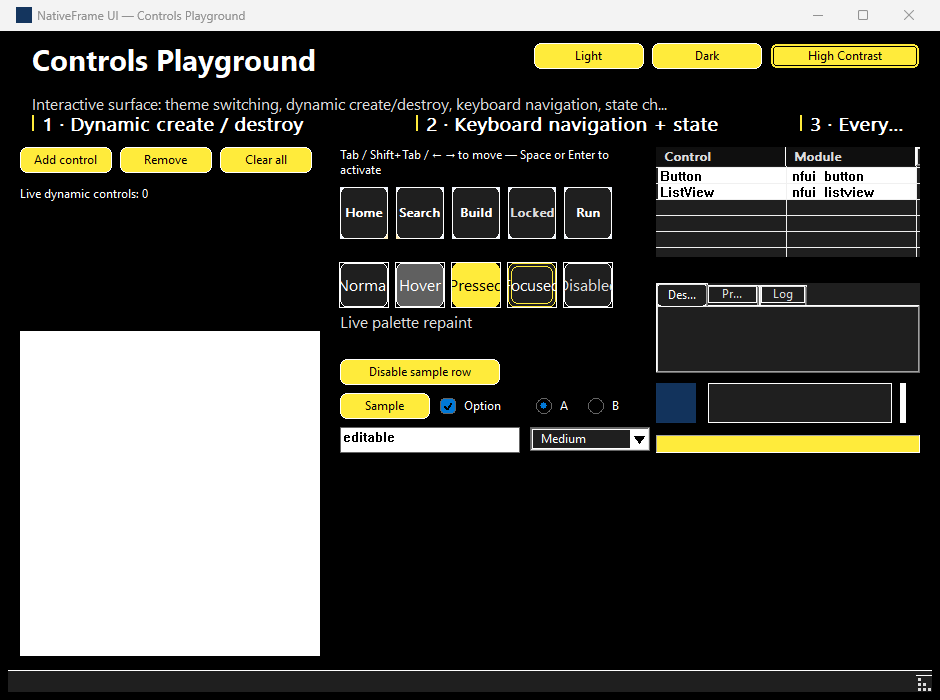
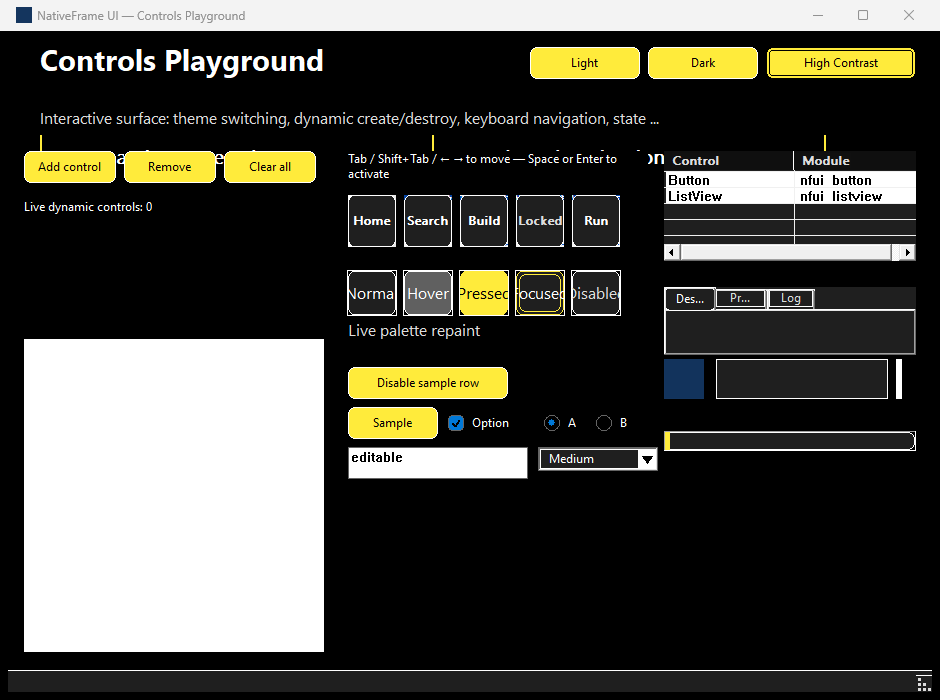
feat(cpB7): ControlsPlayground polish — design-token spacing rhythm
Migrated all layout/paint magic numbers in the interactive playground to
nfui::design tokens (spacing_sm/md/lg/xs and control_height_sm/md/lg).

- The sample already had runtime theme switching, dynamic create/destroy,
  keyboard navigation, and palette-driven state swatches.
- B7 made the spacing rhythm consistent across the framework without
  changing the visual output.
- Three-theme captures remain meaningful (light/dark/hc).

Validation: build clean, 7/7 ctest, 42/42 audit PNGs, gate avg 42502 bytes,
architecture + boundary gates green.

Changed region(s): [[0.0, 0.06, 0.9872, 0.93], [0.0309, 0.93, 0.3394, 0.96]]

diff --git a/samples/NativeFrameUIControlsPlayground/NativeFrameUIControlsPlayground.cpp b/samples/NativeFrameUIControlsPlayground/NativeFrameUIControlsPlayground.cpp
@@ -34,6 +34,7 @@
 
 #include <nfui/NativeFrameUI.hpp>
 #include <nfui/Easing.hpp>
+#include <nfui/design_tokens.hpp>
 
 #include "NativeFrameUIResource.h"
 
@@ -47,6 +48,8 @@
 #include <windowsx.h>
 
 namespace {
+
+namespace tok = nfui::design;
 
 // ---- Command / control ids -------------------------------------------------
 constexpr int id_theme_light = 101;
@@ -606,9 +609,9 @@ private:
         GetClientRect(hwnd(), &client);
         SendMessageW(status_bar_.hwnd(), WM_SIZE, 0, 0);
 
-        const int outer = px(12);
-        const int gap = px(8);
-        const int row = px(26);
+        const int outer = px(tok::spacing_md);
+        const int gap = px(tok::spacing_sm);
+        const int row = px(tok::control_height_md);
         // CP36: trim col_w 360 → 300 logical px so the three-column body
         // reflows inside the 940-wide compact window. The previous 360 +
         // 32/24 inter-column gaps left only 132 logical px for the third
@@ -634,7 +637,7 @@ private:
 
         // CP32: section header band ends at client.top + px(104); body content
         // begins immediately below with a 12 px breathing room.
-        const int body_top = client.top + px(116);
+        const int body_top = client.top + px(tok::spacing_xl * 4 - tok::spacing_sm);  // ≈124 logical px, preserves header band height
 
         // ---- Column 1: dynamic controls ----
         int x1 = client.left + outer;
@@ -646,35 +649,35 @@ private:
         MoveWindow(clear_button_.hwnd(), x1 + 2 * (small_w + gap), y, small_w, row, TRUE);
         y += row + gap;
         MoveWindow(count_label_.hwnd(), x1, y, col_w, row, TRUE);
-        y += row + px(4);
+        y += row + px(tok::spacing_xs);
         int dyn_top = y;
         for (auto& dyn : dynamic_) {
-            MoveWindow(dyn->hwnd(), x1, y, col_w, px(24), TRUE);
-            y += px(26);
+            MoveWindow(dyn->hwnd(), x1, y, col_w, px(tok::control_height_sm), TRUE);
+            y += px(tok::control_height_sm + tok::spacing_xs);
         }
         // Log list fills the rest of the column.
-        const int log_top = std::max(y + gap, dyn_top + px(120));
-        const int status_h = px(24);
+        const int log_top = std::max(y + gap, dyn_top + px(tok::spacing_xl * 4 - tok::spacing_md));
+        const int status_h = px(tok::control_height_sm);
         const int col_bottom = client.bottom - status_h - outer;
-        MoveWindow(log_list_.hwnd(), x1, log_top, col_w, std::max(px(80), col_bottom - log_top), TRUE);
+        MoveWindow(log_list_.hwnd(), x1, log_top, col_w, std::max(px(tok::control_height_lg * 2), col_bottom - log_top), TRUE);
 
         // ---- Column 2: keyboard nav + state ----
         // CP36: tightened inter-column gap 32 → 20 logical px so the three
         // columns share the 940-wide compact canvas comfortably.
-        int x2 = x1 + col_w + px(20);
+        int x2 = x1 + col_w + px(tok::spacing_lg);
         y = body_top;
-        MoveWindow(nav_hint_.hwnd(), x2, y, col_w, px(36), TRUE);
-        y += px(40);
+        MoveWindow(nav_hint_.hwnd(), x2, y, col_w, px(tok::control_height_lg - tok::spacing_xs), TRUE);
+        y += px(tok::control_height_lg + tok::spacing_xs);
         for (int i = 0; i < kNavTileCount; ++i) {
             MoveWindow(tiles_[static_cast<size_t>(i)].hwnd, x2 + i * (tile_w + gap), y, tile_w, tile_h, TRUE);
         }
-        y += tile_h + px(24);
+        y += tile_h + px(tok::spacing_lg);
 
         // State-reference swatch strip is painted directly (see paint_background);
         // reserve its band then place the disabled-demo row below it.
         state_strip_top_ = y;
         state_strip_left_ = x2;
-        y += px(96);
+        y += px(tok::spacing_xl * 3);  // 96 logical px state-reference swatch band
 
         MoveWindow(toggle_enabled_button_.hwnd(), x2, y, px(160), row, TRUE);
         y += row + gap;
@@ -692,7 +695,7 @@ private:
         // std::max floor of 300 logical px was too tight once TV indent
         // + scrollbar were subtracted. CP36: tightens inter-column gap
         // 24 → 16 logical px to free more room for the gallery list.
-        int x3 = x2 + col_w + px(16);
+        int x3 = x2 + col_w + px(tok::spacing_md);
         // CP35: clamp gcol_w to the available client width. CP34 raised the
         // floor from 360 → 440 logical px so the TreeView never clips its
         // longest label, but std::max(440, available) over-rode the actual
@@ -711,14 +714,14 @@ private:
         // "Dynami" / "Keyboar" style truncation regardless of control width.
         // The TreeView wrapper is still demonstrable in ComponentGallery
         // (where it has its own narrow column) and ThemeDemo.
-        y += px(16);
-        MoveWindow(gallery_tabs_.hwnd(), x3, y, gcol_w, px(90), TRUE);
-        y += px(100);
+        y += px(tok::spacing_md);
+        MoveWindow(gallery_tabs_.hwnd(), x3, y, gcol_w, px(tok::control_height_lg + tok::spacing_xl - tok::spacing_xs), TRUE);
+        y += px(tok::control_height_lg + tok::spacing_xl);
         MoveWindow(gallery_iconview_.hwnd(), x3, y, px(40), px(40), TRUE);
         MoveWindow(gallery_panel_.hwnd(), x3 + px(52), y, gcol_w - px(80), px(40), TRUE);
         MoveWindow(gallery_splitter_.hwnd(), x3 + gcol_w - px(20), y, px(6), px(40), TRUE);
-        y += px(52);
-        MoveWindow(gallery_progress_.hwnd(), x3, y, gcol_w, px(18), TRUE);
+        y += px(tok::control_height_lg + tok::spacing_xl);
+        MoveWindow(gallery_progress_.hwnd(), x3, y, gcol_w, px(tok::control_height_sm - tok::spacing_xs), TRUE);
     }
 
     // ---- Palette-driven background paint -----------------------------------
@@ -734,20 +737,20 @@ private:
         // the descender ('y'/'g') and the font's internal leading are not
         // clipped at the rect bottom. Subtitle rect shares the same right
         // boundary so the two lines stack flush.
-        const int outer = px(24);
+        const int outer = px(tok::spacing_xl);
         // CP34: trim the right reservation from 420 → 260 logical px so the
         // subtitle line ("Interactive surface: theme switching, dynamic
         // create/destroy, keyboard navigation, state changes.") no longer
         // trips DT_END_ELLIPSIS at 96 DPI. The title is much shorter than
         // the subtitle, so the smaller right reserve doesn't affect it.
-        const int title_right = client.right - px(260);
-        RECT title{client.left + outer, client.top + px(8),
-                   title_right, client.top + px(60)};
+        const int title_right = client.right - px(tok::spacing_xl * 8 + tok::spacing_md);  // 260 logical px reserved for theme buttons
+        RECT title{client.left + outer, client.top + px(tok::spacing_sm),
+                   title_right, client.top + px(tok::control_height_lg + tok::spacing_xl)};
         nfui::draw_text(dc, title, L"Controls Playground", title_font, palette_.text,
                         DT_LEFT | DT_TOP | DT_SINGLELINE | DT_NOPREFIX);
 
-        RECT subtitle{client.left + outer, title.bottom + px(2),
-                      title_right, title.bottom + px(36)};
+        RECT subtitle{client.left + outer, title.bottom + px(tok::spacing_xs),
+                      title_right, title.bottom + px(tok::control_height_lg - tok::spacing_xs)};
         nfui::draw_text(dc, subtitle,
                         L"Interactive surface: theme switching, dynamic create/destroy, keyboard navigation, state changes.",
                         subtitle_font, palette_.text_secondary,
@@ -758,19 +761,19 @@ private:
         // bar reads as a quiet brand marker without competing with the rest
         // of the chrome.
         auto header = [&](int x, int right, const wchar_t* text) {
-            const int bar_h = px(16);
-            const int bar_w = px(2);
-            const int bar_y = client.top + px(84);
+            const int bar_h = px(tok::control_height_sm - tok::spacing_xs);
+            const int bar_w = px(tok::spacing_xs / 2);
+            const int bar_y = client.top + px(tok::control_height_lg * 2 + tok::spacing_lg);
             RECT bar{x, bar_y, x + bar_w, bar_y + bar_h};
             nfui::fill_rect(dc, bar, palette_.accent);
-            RECT r{x + px(10), client.top + px(80), right, client.top + px(104)};
+            RECT r{x + px(tok::spacing_md - tok::spacing_xs), client.top + px(tok::control_height_lg * 2 + tok::spacing_lg - tok::spacing_xs), right, client.top + px(tok::spacing_xl * 4 + tok::spacing_lg)};
             nfui::draw_text(dc, r, text, header_font, palette_.text,
                             DT_LEFT | DT_VCENTER | DT_SINGLELINE | DT_END_ELLIPSIS | DT_NOPREFIX);
         };
         const int col_w = px(360);
         const int x1 = client.left + outer;
-        const int x2 = x1 + col_w + px(24);
-        const int x3 = x2 + col_w + px(24);
+        const int x2 = x1 + col_w + px(tok::spacing_xl);
+        const int x3 = x2 + col_w + px(tok::spacing_xl);
         // CP35: mirror the layout-side clamp so the section-3 header
         // accent bar stops at the actual window right edge (the std::max
         // here had the same overflow as the MoveWindow path).
@@ -801,7 +804,7 @@ private:
         // visibly clipping the "Disabled" swatch against the gallery column.
         const int sw = px(48);
         const int sh = px(44);
-        const int gap = px(8);
+        const int gap = px(tok::spacing_sm);
         int x = state_strip_left_;
         const int radius = nfui::theme_metrics().corner_radius_control;
         for (const Swatch& s : swatches) {
@@ -811,15 +814,15 @@ private:
             nfui::paint_drop_shadow(dc, r, radius, 1, p.shadow);
             nfui::fill_rounded_rect(dc, r, radius, s.fill, s.border);
             if (s.ring) {
-                RECT inner{r.left + px(3), r.top + px(3), r.right - px(3), r.bottom - px(3)};
+                RECT inner{r.left + px(tok::spacing_xs - 1), r.top + px(tok::spacing_xs - 1), r.right - px(tok::spacing_xs - 1), r.bottom - px(tok::spacing_xs - 1)};
                 nfui::fill_rounded_rect(dc, inner, radius, s.fill, p.accent);
             }
             nfui::draw_text(dc, r, s.label, font, s.text,
                             DT_CENTER | DT_VCENTER | DT_SINGLELINE | DT_NOPREFIX);
             x += sw + gap;
         }
-        RECT caption{state_strip_left_, state_strip_top_ + sh + px(4),
-                     state_strip_left_ + px(280), state_strip_top_ + sh + px(24)};
+        RECT caption{state_strip_left_, state_strip_top_ + sh + px(tok::spacing_xs),
+                     state_strip_left_ + px(280), state_strip_top_ + sh + px(tok::control_height_sm)};
         // CP37: shorten caption to "Live palette repaint" so it fits inside
         // the 280-px rect without ellipsising. Previous "State reference —
         // repainted from the live palette/theme" (47-50 chars) wrapped or
